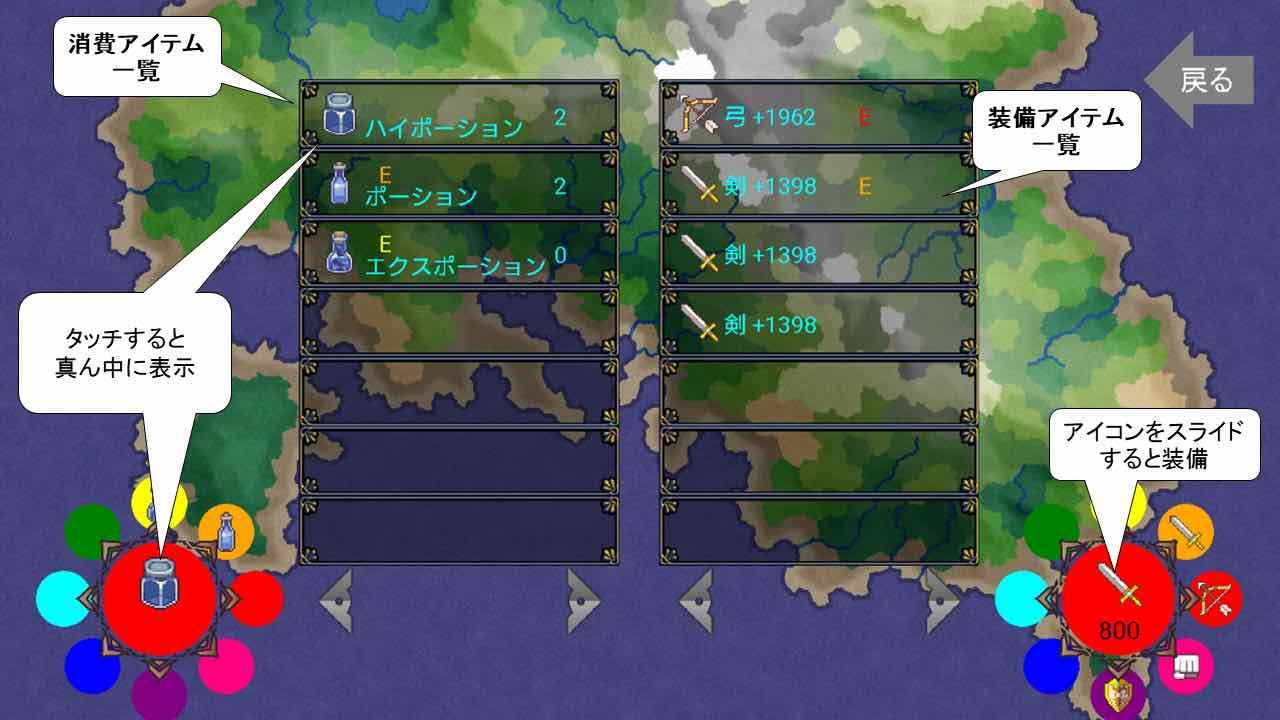
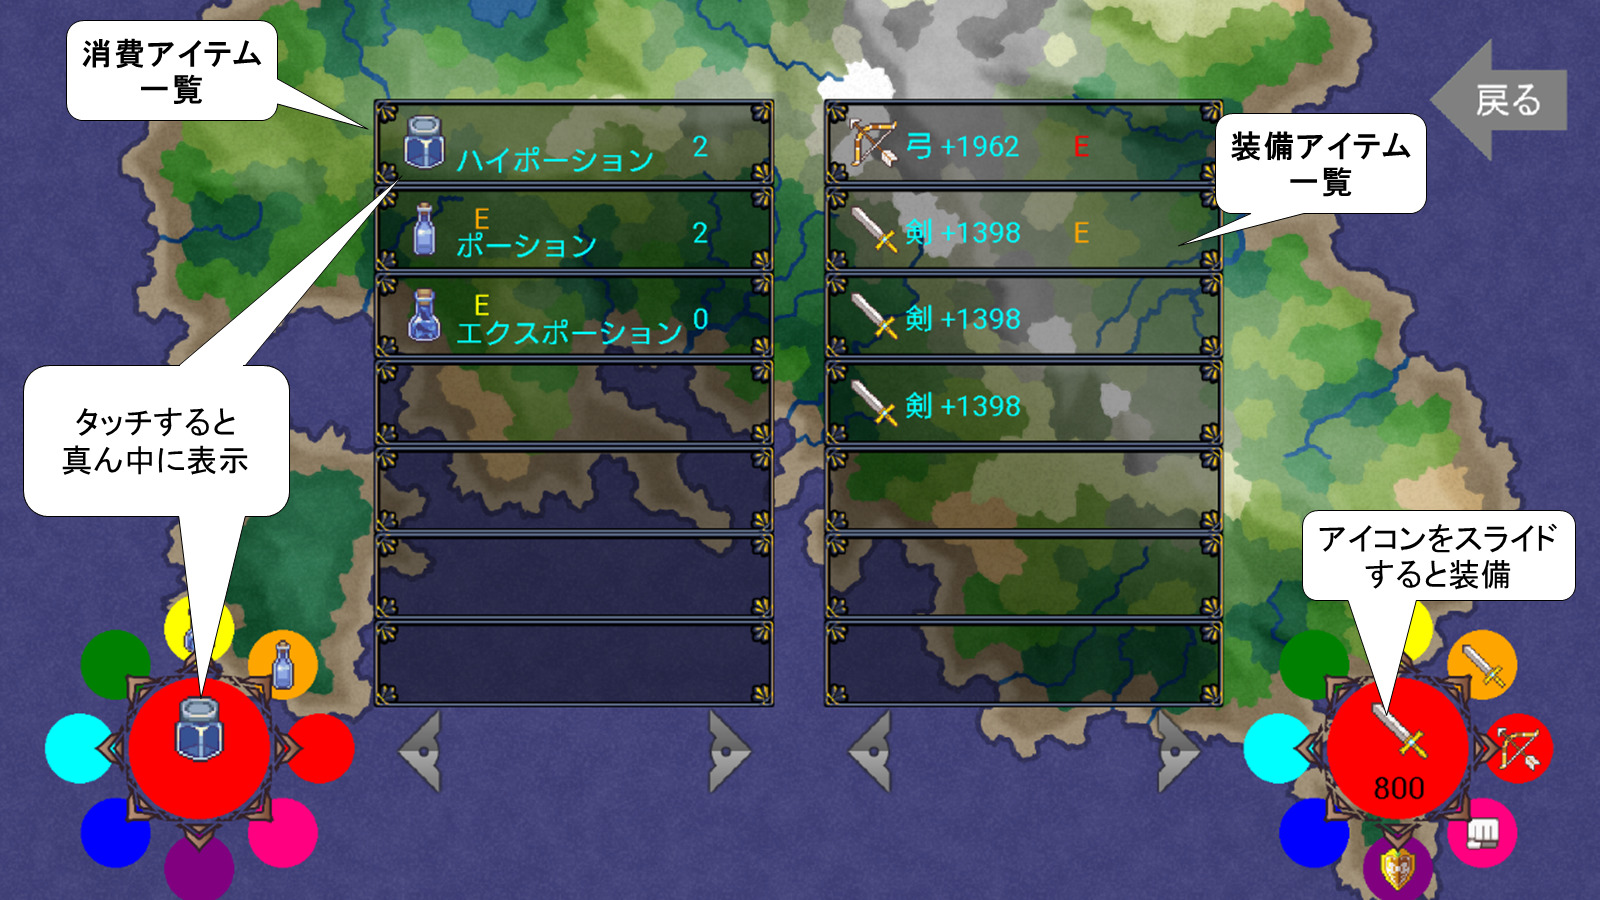
チュートリアル更新，マップサイズ変更

diff --git a/maohx2/app/src/main/java/com/maohx2/ina/WorldGameSystem.java b/maohx2/app/src/main/java/com/maohx2/ina/WorldGameSystem.java
@@ -5,8 +5,8 @@ import android.graphics.Canvas;
 import android.view.SurfaceHolder;
 
 import com.maohx2.fuusya.TextBox.TextBoxAdmin;
-import com.maohx2.horie.EquipTutorial.EquipTutorialSaveData;
-import com.maohx2.horie.EquipTutorial.EquipTutorialSaver;
+//import com.maohx2.horie.EquipTutorial.EquipTutorialSaveData;
+//import com.maohx2.horie.EquipTutorial.EquipTutorialSaver;
 import com.maohx2.horie.Tutorial.TutorialFlagData;
 import com.maohx2.horie.Tutorial.TutorialFlagSaver;
 import com.maohx2.ina.Arrange.Inventry;
@@ -71,7 +71,6 @@ import android.graphics.Paint;
 /**
  * Created by ina on 2017/10/01.
  */
-
 public class WorldGameSystem {
 
     SurfaceHolder holder;
@@ -294,7 +293,7 @@ public class WorldGameSystem {
         initBackPlate();
 
         //OP判定。まだOPを流していないならOP会話イベントを発動する。
-        talkAdmin.start("Opening_in_world", false);//セーブデータ関係を内包しており、ゲーム中一度のみ実行される
+        //talkAdmin.start("Opening_in_world", false);//セーブデータ関係を内包しており、ゲーム中一度のみ実行される//堀江デバッグのためにコメントアウト
 
         /*
         battleUnitDataAdmin = new BattleUnitDataAdmin(databaseAdmin, graphic);
@@ -351,7 +350,7 @@ public class WorldGameSystem {
 */
 
         if (!talkAdmin.isTalking()) {
-            talkAdmin.debug();
+            //talkAdmin.debug();//堀江デバッグのためにコメントアウト
         }
 
         switch (worldModeAdmin.getMode()) {
@@ -535,7 +534,7 @@ public class WorldGameSystem {
                 playerStatusViewer.draw();
                 break;
             case TU_GEO:
-                graphic.bookingDrawBitmapData(tu_geo_img, 0, 0, 1.25f, 1.25f, 0, 255, true);
+                graphic.bookingDrawBitmapData(tu_geo_img, 0, 0, 0.983f, 0.983f, 0, 255, true);
                 break;
             case SHOP_INIT:
                 graphic.bookingDrawBitmapData(backGround, 0, 0, 1, 1, 0, 255, true);
@@ -546,17 +545,17 @@ public class WorldGameSystem {
                 playerStatusViewer.draw();
                 break;
             case TU_SHOP:
-                graphic.bookingDrawBitmapData(tu_shop_img, 0, 0, 1.25f, 1.25f, 0, 255, true);
+                graphic.bookingDrawBitmapData(tu_shop_img, 0, 0, 0.983f, 0.983f, 0, 254, true);
                 break;
             case TU_SELL:
-                graphic.bookingDrawBitmapData(tu_sell_img, 0, 0, 1.25f, 1.25f, 0, 255, true);
+                graphic.bookingDrawBitmapData(tu_sell_img, 0, 0, 0.983f, 0.983f, 0, 254, true);
                 break;
             case EQUIP_INIT:
                 graphic.bookingDrawBitmapData(backGround, 0, 0, 1, 1, 0, 255, true);
                 break;
             case TU_EQUIP:
 //                graphic.bookingDrawBitmapData(backGround, 0, 0, 1, 1, 0, 255, true);
-                graphic.bookingDrawBitmapData(tu_equip_img, 0, 0, 1.25f, 1.25f, 0, 255, true);
+                graphic.bookingDrawBitmapData(tu_equip_img, 0, 0, 0.983f, 0.983f, 0, 254, true);
                 break;
             case EQUIP:
                 graphic.bookingDrawBitmapData(backGround, 0, 0, 1, 1, 0, 255, true);

diff --git a/maohx2/app/src/main/java/com/maohx2/fuusya/MapPlateAdmin.java b/maohx2/app/src/main/java/com/maohx2/fuusya/MapPlateAdmin.java
@@ -255,7 +255,9 @@ public class MapPlateAdmin {
 
         drawTutorialImage();
 
-        drawFloorAndHP();
+        if(i_of_tutorial_bitmap > NUM_OF_TUTORIAL_BITMAP+2) {
+            drawFloorAndHP();
+        }
 
     }
 
@@ -338,12 +340,29 @@ public class MapPlateAdmin {
     private void drawTutorialImage() {
 
         if (playerStatus.getTutorialInDungeon() == 0) {
+            BitmapData tutorial_bitmap;
+            if(i_of_tutorial_bitmap <= NUM_OF_TUTORIAL_BITMAP) {
+                String bitmap_name = tutorial_name + String.valueOf(i_of_tutorial_bitmap);
+                tutorial_bitmap = graphic.searchBitmap(bitmap_name);
+            }
+            else if(i_of_tutorial_bitmap == NUM_OF_TUTORIAL_BITMAP+1){
+                tutorial_bitmap = graphic.searchBitmap("t_battle");
+            }
+            else if(i_of_tutorial_bitmap == NUM_OF_TUTORIAL_BITMAP+2) {
+                tutorial_bitmap = graphic.searchBitmap("t_mine");
+            }
+            else{
+                tutorial_bitmap = null;
+            }
 
-            String bitmap_name = tutorial_name + String.valueOf(i_of_tutorial_bitmap);
-            BitmapData tutorial_bitmap = graphic.searchBitmap(bitmap_name);
-
-            if (tutorial_bitmap != null) {
+            if (tutorial_bitmap != null && i_of_tutorial_bitmap <= NUM_OF_TUTORIAL_BITMAP) {
                 graphic.bookingDrawBitmapData(tutorial_bitmap, 0, 0, 1, 1, 0, 255, true);
+            }
+            else if (tutorial_bitmap != null && i_of_tutorial_bitmap == NUM_OF_TUTORIAL_BITMAP+1) {
+                graphic.bookingDrawBitmapData(tutorial_bitmap, 0, -1, 0.983f, 0.983f, 0, 255, true);
+            }
+            else if (tutorial_bitmap != null && i_of_tutorial_bitmap == NUM_OF_TUTORIAL_BITMAP+2) {
+                graphic.bookingDrawBitmapData(tutorial_bitmap, 0, 0, 0.983f, 0.983f, 0, 255, true);
             }
 
             Constants.Touch.TouchState touch_state = dungeon_user_interface.getTouchState();
@@ -351,10 +370,9 @@ public class MapPlateAdmin {
             if (touch_state == Constants.Touch.TouchState.UP) {
                 i_of_tutorial_bitmap++;
 
-                if (i_of_tutorial_bitmap > NUM_OF_TUTORIAL_BITMAP) {
+                if(i_of_tutorial_bitmap > NUM_OF_TUTORIAL_BITMAP+2){
                     playerStatus.setTutorialInDungeon(1);
                     playerStatusSaver.save();
-
                 }
             }
         }
